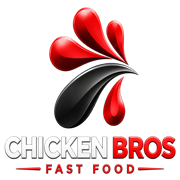
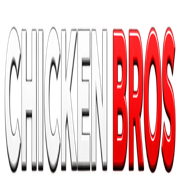
gg

diff --git a/src/config/restaurant.ts b/src/config/restaurant.ts
@@ -4,7 +4,7 @@ export const restaurant: RestaurantConfig = {
   businessName: 'Chicken Bros', shortName: 'CHICKEN BROS', tagline: 'Fast Food',
   description: 'Burgers, chicken, wraps, naans, biryani, plats et bien plus à Paris 18.',
   logo: '/images/logo/chicken-bros-logo.png',
-  favicon: '/images/logo/chicken-bros-logo.png', phone: '+33765272890', phoneDisplay: '07 65 27 28 90', email: '',
+  favicon: '/images/logo/chicken-bros-wordmark.png', phone: '+33765272890', phoneDisplay: '07 65 27 28 90', email: '',
   address: '92 Avenue de Saint-Ouen', city: 'Paris', postcode: '75018', country: 'France',
   googleMapsUrl: 'https://www.google.com/maps/search/?api=1&query=92%20Avenue%20de%20Saint-Ouen%2075018%20Paris',
   googleMapsEmbedUrl: 'https://www.google.com/maps?q=92%20Avenue%20de%20Saint-Ouen%2075018%20Paris&output=embed',

diff --git a/index.html b/index.html
@@ -5,8 +5,8 @@
     <meta name="viewport" content="width=device-width, initial-scale=1.0" />
     <!-- SEO_HEAD -->
     <meta name="keywords" content="Chicken Bros, fast food Paris 18, burgers, chicken, wraps, naans, biryani" />
-    <link rel="icon" type="image/png" href="/images/logo/chicken-bros-logo.png?v=3" />
-    <link rel="shortcut icon" href="/favicon.ico?v=3" />
+    <link rel="icon" type="image/png" href="/images/logo/chicken-bros-wordmark.png?v=4" />
+    <link rel="shortcut icon" href="/favicon.ico?v=4" />
     <link rel="apple-touch-icon" href="/apple-touch-icon.png" />
     <link rel="preconnect" href="https://fonts.googleapis.com" />
     <link rel="preconnect" href="https://fonts.gstatic.com" crossorigin />
